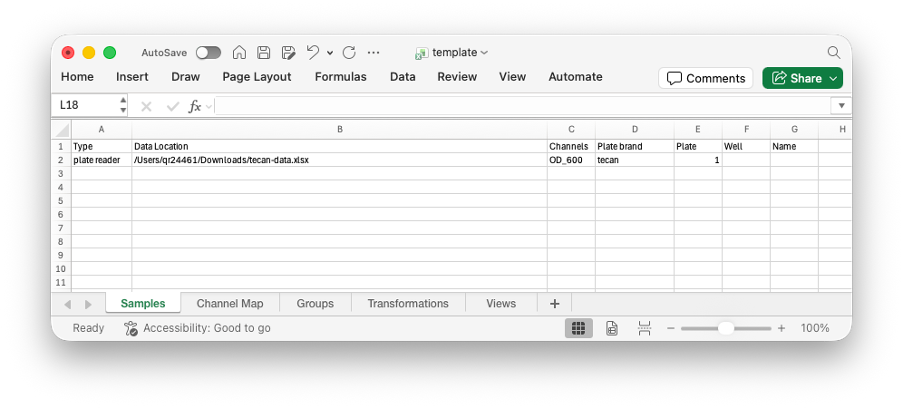
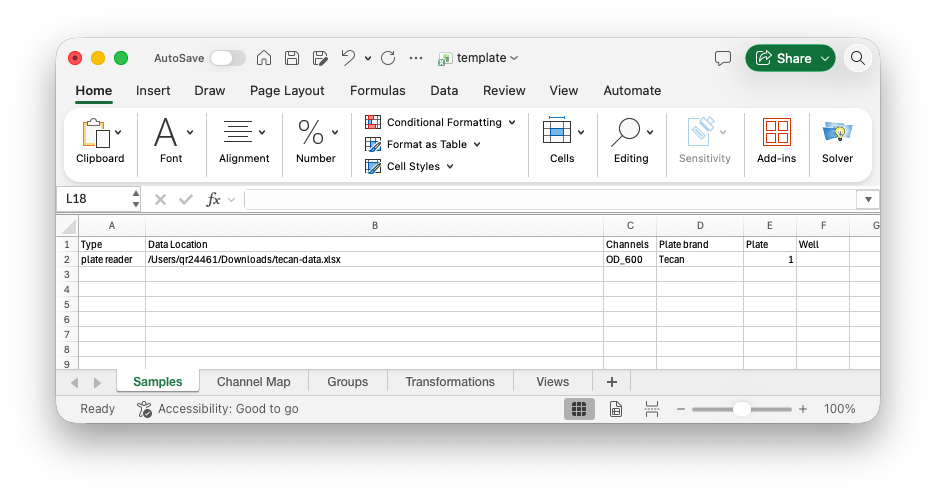
basic updates to documentation
for the changes made so far to get ready for v0.4

Changed region(s): [[0.031, 0.0882, 0.9602, 0.8529], [0.0619, 0.0882, 0.5575, 0.1471]]

diff --git a/docs/src/data_format.md b/docs/src/data_format.md
@@ -29,7 +29,21 @@ Times are formatted as an integer number of milliseconds. Flow cytometry channel
                 ]
             },
             "type":"timeseries",
-            "metadata":{}
+            "metadata": {
+                "raw_metadata": "Plate:\tPlate1\t1.3\t ... FALSE\tRaw\tFALSE\t1\t52\t52\t1\t535\t1\t12\t96\t485\tManual\t6\tHigh\t1\t5\t485\n",
+                "template": {
+                    "channels": [
+                        "535_485",
+                        "600",
+                        "700"
+                    ],
+                    "data_location": ".../spectramax-summarise.txt",
+                    "plate": 1,
+                "plate_brand": "SpectraMax",
+                "sample_type": "plate reader",
+                "well": ""
+                }
+            }
         },
         "plate_01_temperature":{
             "values":{
@@ -45,7 +59,21 @@ Times are formatted as an integer number of milliseconds. Flow cytometry channel
             ]
             },
             "type":"timeseries",
-            "metadata":{}
+            "metadata": {
+                "raw_metadata": "Plate:\tPlate1\t1.3\t ... FALSE\tRaw\tFALSE\t1\t52\t52\t1\t535\t1\t12\t96\t485\tManual\t6\tHigh\t1\t5\t485\n",
+                "template": {
+                    "channels": [
+                        "535_485",
+                        "600",
+                        "700"
+                    ],
+                    "data_location": ".../spectramax-summarise.txt",
+                    "plate": 1,
+                "plate_brand": "SpectraMax",
+                "sample_type": "plate reader",
+                "well": ""
+                }
+            }
         },
         "plate_01_a1":{
             "values":{
@@ -61,7 +89,21 @@ Times are formatted as an integer number of milliseconds. Flow cytometry channel
                 ]
             },
             "type":"timeseries",
-            "metadata":{}
+            "metadata": {
+                "raw_metadata": "Plate:\tPlate1\t1.3\t ... FALSE\tRaw\tFALSE\t1\t52\t52\t1\t535\t1\t12\t96\t485\tManual\t6\tHigh\t1\t5\t485\n",
+                "template": {
+                    "channels": [
+                        "535_485",
+                        "600",
+                        "700"
+                    ],
+                    "data_location": ".../spectramax-summarise.txt",
+                    "plate": 1,
+                "plate_brand": "SpectraMax",
+                "sample_type": "plate reader",
+                "well": ""
+                }
+            }
         },
         ...
         "plate_01_h12":{
@@ -78,7 +120,21 @@ Times are formatted as an integer number of milliseconds. Flow cytometry channel
                 ]
             },
             "type":"timeseries",
-            "metadata":{}
+            "metadata": {
+                "raw_metadata": "Plate:\tPlate1\t1.3\t ... FALSE\tRaw\tFALSE\t1\t52\t52\t1\t535\t1\t12\t96\t485\tManual\t6\tHigh\t1\t5\t485\n",
+                "template": {
+                    "channels": [
+                        "535_485",
+                        "600",
+                        "700"
+                    ],
+                    "data_location": ".../spectramax-summarise.txt",
+                    "plate": 1,
+                "plate_brand": "SpectraMax",
+                "sample_type": "plate reader",
+                "well": ""
+                }
+            }
         },
         "plate_02_a1":{
             "values":{
@@ -263,4 +319,24 @@ Under views, we have key-value pairs (name of the view is the key) with a variab
 
 ## Metadata
 
-TBD
+In addition to metadata about your samples and groups, ESM also stores a range of metadata about the ESM file itself. This is to help aid in reproducibility of the analysis.
+This metadata is generated when the ESM file is created. It may be changed when the `.esm` file is edited with `esm interactive`, in which case it will be overridden and the old metadata will be stored in the description. The idea behind including this metadata is so that the versions of the software used to do the analysis (the esm version and its dependencies), which is likely to be the same as the version used to generate the `.esm` file, is recorded as part of the `.esm` file, which can help to track down changes either in the functionality of ESM or its dependencies.
+
+```json
+"metadata": {
+    "Manifest.toml": "...",
+    "Project.toml": "...",
+    "channel_map": {
+      "535_485": "535_485",
+      "600": "abs600",
+      "700": "abs700",
+      "FSC_H": "FSC_H"
+    },
+    "date_created": "",
+    "date_modified": "",
+    "description": "",
+    "esm_version": "0.4.0",
+    "schema_version": "0.4.0",
+    "versioninfo": "..."
+}
+```

diff --git a/docs/src/tutorial.md b/docs/src/tutorial.md
@@ -11,7 +11,7 @@ This tutorial will walk you through the complete workflow of processing experime
 
 1. [Download the source code](https://github.com/eebio/esm/archive/refs/heads/main.zip) and unzip it.
 2. [Download Julia](https://julialang.org/) if you don’t already have it installed.
-3. Run `julia --project -e ‘using Pkg; Pkg.precompile(); Pkg.build()’` from the root directory of the repository (i.e. `/where/you/saved/source/code/esm-main`). If it fails, try running it a second time.
+3. Run `julia --project -e 'using Pkg; Pkg.precompile(); Pkg.build()'` from the root directory of the repository (i.e. `/where/you/saved/source/code/esm-main`). If it fails, try running it a second time.
 4. You can test if its working by running `esm template -h`, if you see some documentation appear, ESM is successfully installed.
 5. If you instead see an error `command not found: esm`, you may need to add `~/.julia/bin` to your PATH.
 
@@ -201,7 +201,7 @@ You should now have a file called `dt_control.csv` which contains you doubling t
 ## Best practices
 
 1. **Summarise Data Early**: Looking at plots of the data can help identify issues like contaminated wells, that may change how you want to analyse the data.
-2. **Start Small**: Its easy to fill out the template at the start, but this can make it harder to debug the transformations. Try going through, writing a transformation at a time and export it as a view to keep an eye on whats happening.
+2. **Start Small**: Its easy to fill out the template at the start, but this can make it harder to debug the transformations. Try going through, writing a transformation at a time and export it as a view to keep an eye on whats happening. You can also test out transformations through `esm interactive`.
 3. **Save Excel**: Make sure you save the Excel template before calling `esm translate`. Autosaves are not always enough.
 4. **Remember the order of ESM operations**: Using `esm translate` will import and check your raw data, and collect groups, but it won't check your transformations and views. If you are getting errors when trying to generate views, this may be due to transformations being incorrectly defined, rather than just your views.
 
@@ -211,7 +211,7 @@ If you want to learn more about ESM, you can go to:
 
 * [Plate Readers](@ref plate_reader) to learn about the functionality and different methods available for working with plate reader data, like `TimeseriesBlank()` and `Logistic()` used here.
 * [Flow Cytometry](@ref flow_cytometry) to learn about the calibration and gating methods available for working with flow cytometry data.
-* [Command Line Interface](@ref) to learn about all the features of the command line interface (`esm summarise`, `esm translate`, etc.).
+* [Command Line Interface](@ref) to learn about all the features of the command line interface (`esm summarise`, `esm translate`, etc.) including the interactive mode.
 * [Data Format](@ref) to learn about how `.esm` files are structured.
 * [Excel Interface](@ref) to learn more details about how the Excel template file works and its format.
 

diff --git a/docs/src/plate_readers/growth_rate.md b/docs/src/plate_readers/growth_rate.md
@@ -23,7 +23,7 @@ lag_time
 
 !!! note "Lagtime"
     Lagtime is always calculated using `growth_rate`, `time_to_max_growth`, and `od_at_max_growth` according to [Zwietering et al. 1990](https://doi.org/10.1128/aem.56.6.1875-1881.1990). This method defines the lagtime as the x intercept of the tangent to the growth curve at maximum growth on a plot of `log(OD/OD_0)` where `OD_0` is the first OD value in the data set. It is calculated as: `time_to_max_growth - (1 / growth_rate) * ln(od_at_max_growth / OD_0)`.
-    For the parameteric and regularization methods, `OD_0` is determined from the fitted curve.
+    For the parameteric and smoothed spline methods, `OD_0` is determined from the fitted curve.
 
 ## Endpoints
 
@@ -163,9 +163,7 @@ It can be called using `growth_rate(data, time_col, Richards())` or `doubling_ti
 ## Smoothed Spline
 
 For the `SmoothedSpline` method, the data is log scaled (negative points removed) and a weighted least squares spline is fitted using [Dierckx.jl](https://github.com/JuliaMath/Dierckx.jl). The point where the derivative of this smooth cubic spline is maximised determines the growth rate.
-    order::Int = 3
-    smoothness::Float64 = 0.01
-    knots::Union{Nothing, Vector{Float64}} = nothing
+
 It can be called using `growth_rate(data, time_col, SmoothedSpline(order, smoothness, knots))` or `doubling_time(data, time_col, SmoothedSpline(order, smoothness, knots))`.
 
 By default:
@@ -291,7 +289,7 @@ This is the form we fit our linear model in, and where $\varepsilon^\prime = \fr
 
 This means that $var(\varepsilon^\prime)=\frac{\sigma^2}{\widehat{OD}^2}$. Since we don't have access to the fitted $\widehat{OD}$, we instead use the noisy data $OD$. This is why we used weights of $y$ in the example above (then adjusted into frequency weights to ensure the correct effective sample size).
 
-We apply this weighting to all least squares calculations for growth rates. The weight is always $\frac{OD}{OD_0}$, since that is the value we log-transform. This applies for the parametric methods, LinearOnLog (and MovingWindow of LinearOnLog), and the least squares component of regularization.
+We apply this weighting to all least squares calculations for growth rates. The weight is always $\frac{OD}{OD_0}$, since that is the value we log-transform. This applies for the parametric methods, LinearOnLog (and MovingWindow of LinearOnLog), ExpandingWindow, and smoothed splines.
 
 ## Uncertainty
 

diff --git a/docs/src/cli.md b/docs/src/cli.md
@@ -45,3 +45,13 @@ ESM.views
 
 !!! note "Comma-separated views"
     When passing a list of views with `-v`, do not include spaces after the commas — use `-v view1,view2,view3`, not `-v view1, view2, view3`.
+
+## interactive
+
+Edit, manipluate and process a `.esm` file interactively.
+
+```@docs; canonical=false
+ESM.interactive
+```
+
+By calling `esm interactive` on a `.esm` file, you can edit transforms, groups, group metadata, and views. You can also process views to get their outputs (similarly to the outputs of `esm views`) and run arbitrary transformations on your data. This allows you to quickly debug and iterate on a particular transform, without needing to edit the template and re-translating it.
